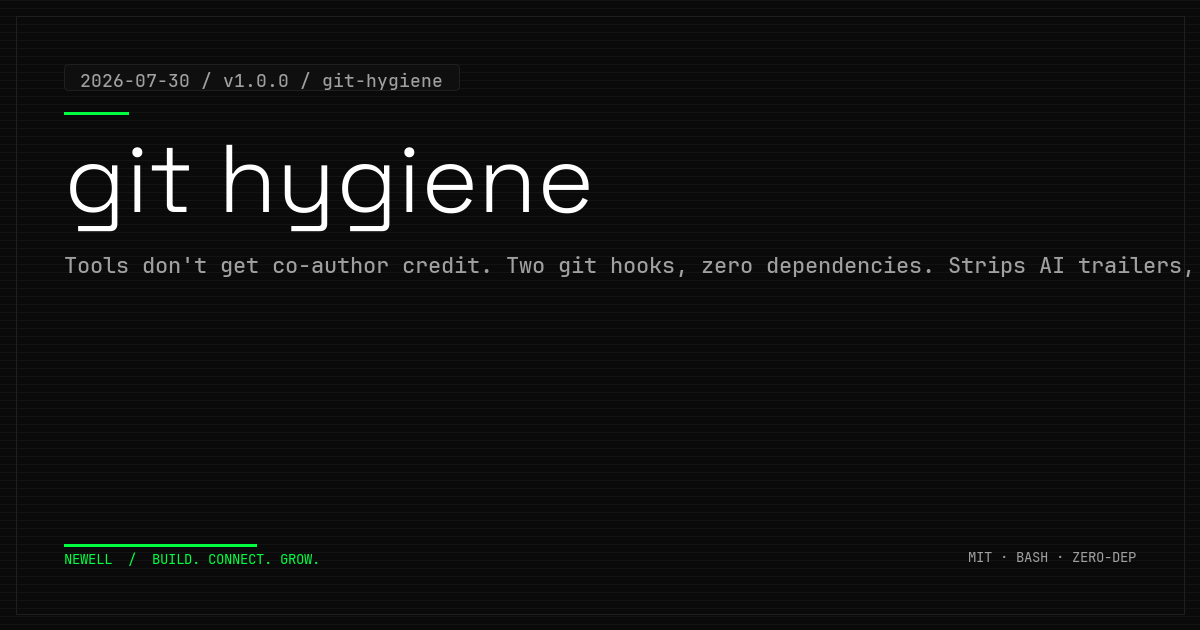
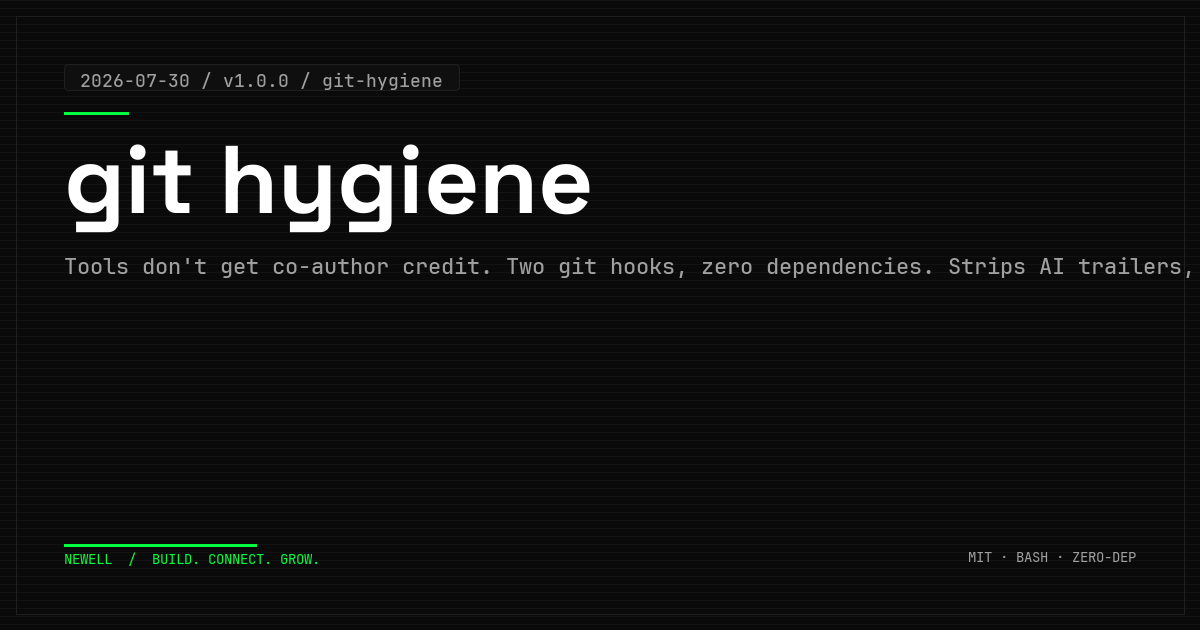
Fix Space Grotesk wordmark weight to Bold (axis=700)

diff --git a/tools/render_brand_assets.py b/tools/render_brand_assets.py
@@ -205,8 +205,11 @@ def render_og(
     # Accent rule
     _draw_accent_rule(draw, tokens, margin_x, grid(14), grid(8))
 
-    # Title — Space Grotesk Bold
-    display = load_font(SPACE_GROTESK_BOLD, 96)
+    # Title — Space Grotesk Bold. The file at SPACE_GROTESK_BOLD is the variable
+    # font (static Bold TTF was unavailable on this machine), so set wght=700
+    # explicitly — otherwise PIL loads the default axis (wght=300, Light).
+    display = ImageFont.truetype(str(SPACE_GROTESK_BOLD), 96)
+    display.set_variation_by_axes([700])  # wght=700 (Bold)
     bbox = draw.textbbox((0, 0), title, font=display)
     draw.text(
         (margin_x - bbox[0], grid(18) - bbox[1]),
